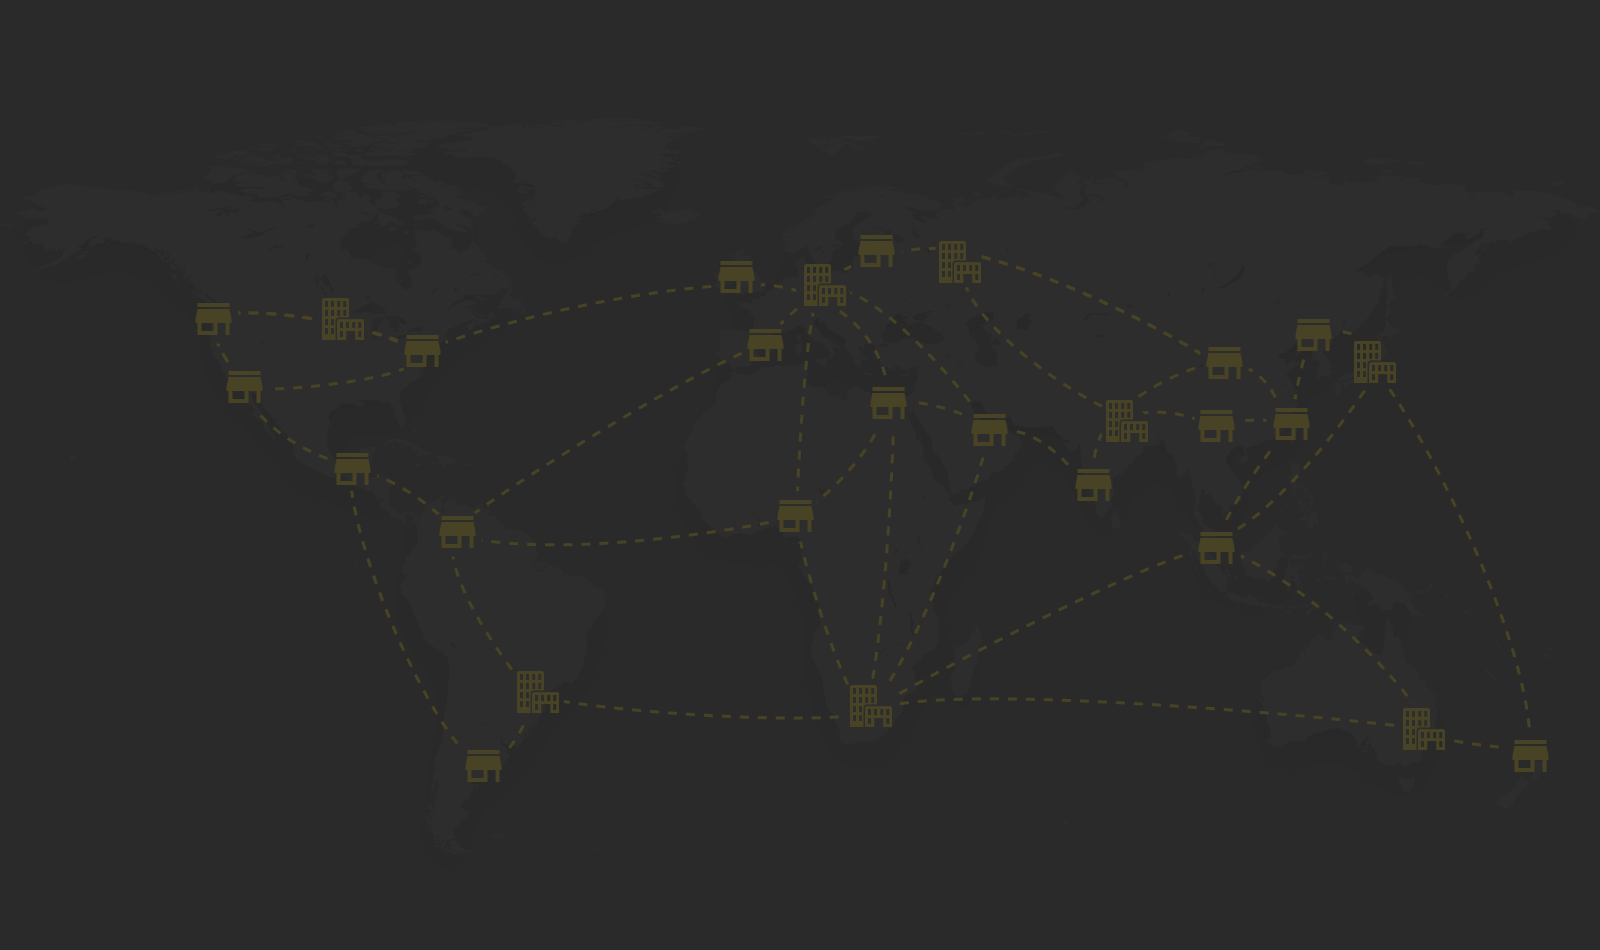
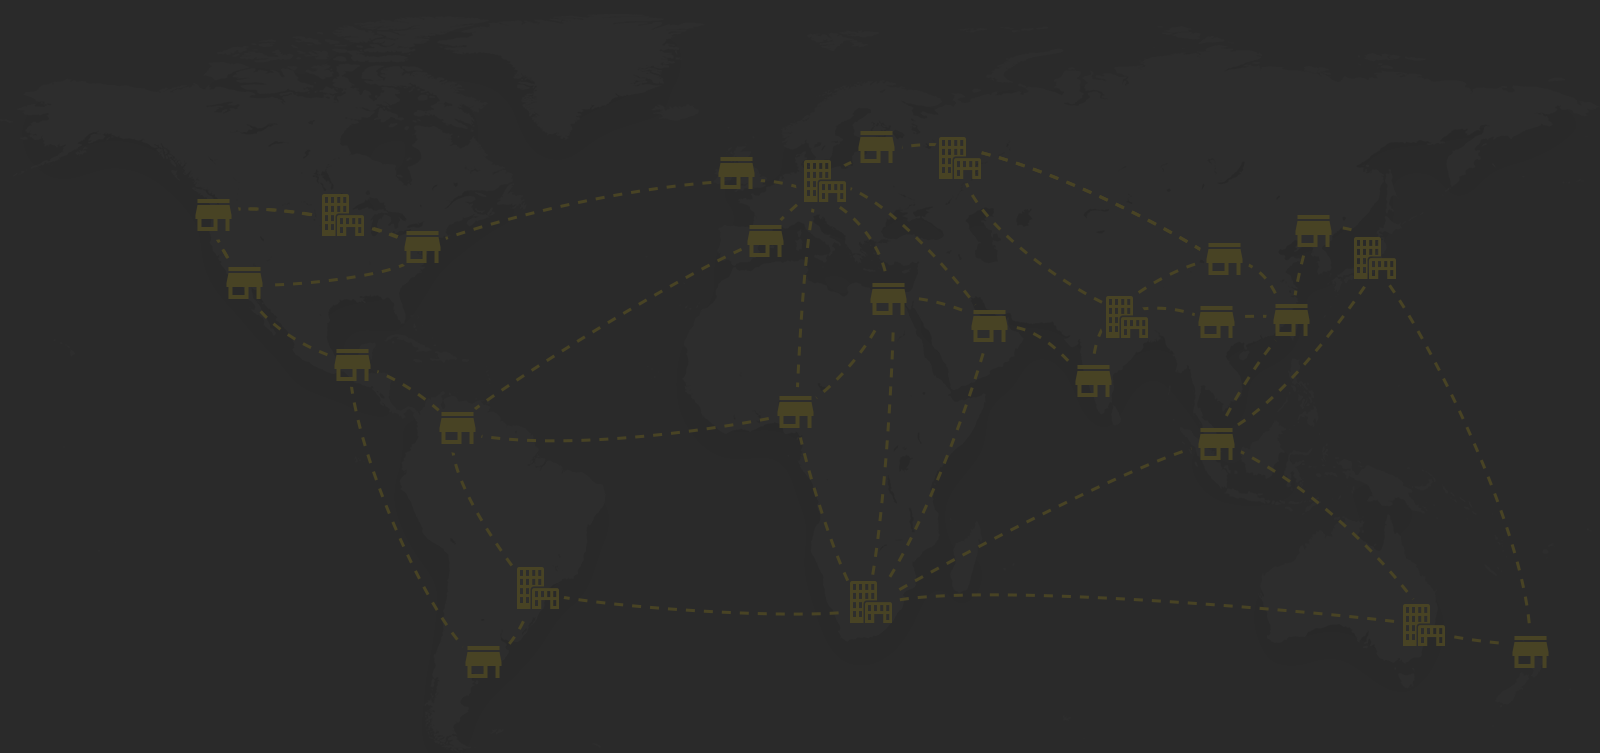
Changes

diff --git a/v1/css/styles.css b/v1/css/styles.css
@@ -218,8 +218,9 @@ h1, h2, h2, h3, h4, h5, h6 {
 #hc-intro {
   background: #2a2a2a;
   background-image: url(../images/map-bg.png);
-  background-position: top center;
+  background-position: center 80px;
   background-repeat: no-repeat;
+  background-size: 90%;
 }
 
 #hc-intro .hc-intro-text-wrapper {
@@ -251,10 +252,15 @@ h1, h2, h2, h3, h4, h5, h6 {
   text-shadow: 1px 1px 2px #000;
 }
 
+#hc-intro .hc-intro-button {
+  padding: 1em 0;
+}
+
 #hc-intro .hc-intro-button a {
   font-size: 1.3em;
   height: 54px;
   line-height: 54px;
+  margin-bottom: 0;
 }
 
 #hc-intro .hc-intro-text p {
@@ -663,8 +669,8 @@ h1, h2, h2, h3, h4, h5, h6 {
 /*--------------------------*/
 /* #hc-why-token  */
 #hc-why-token {
-  padding-top: 4.5em;
-  padding-bottom: 4em;
+  padding-top: 3em;
+  padding-bottom: 3em;
 }
 
 #hc-why-token .desc {

diff --git a/v1/index.html b/v1/index.html
@@ -473,11 +473,11 @@
             <div class="four columns">
               <h5>Token price and duration</h5>
               <div class="highlight">
-                <div class="text">1 ether = 100 Storecoin</div>
+                <div class="text">1 ether = 100 storecoin</div>
                 <div class="subtext">first 2 weeks</div>
               </div>
               <div class="highlight">
-                <div class="text">1 ether = 66 Storecoin</div>
+                <div class="text">1 ether = 66 storecoin</div>
                 <div class="subtext">last 2 weeks</div>
               </div>
               <div class="highlight">
